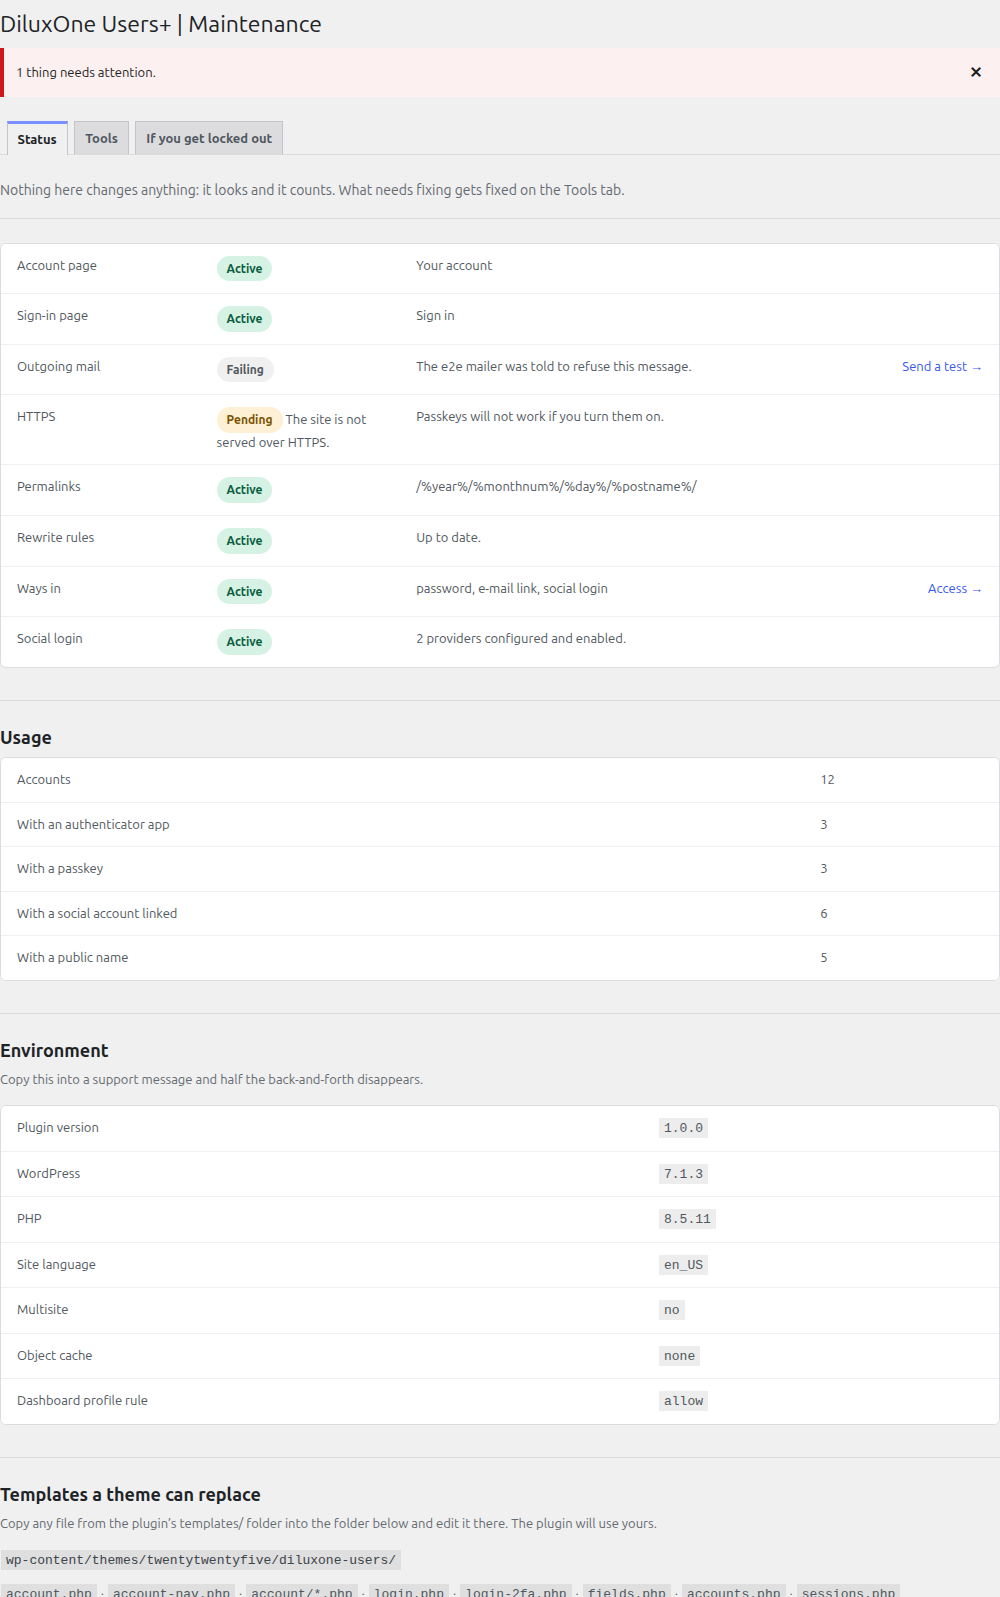
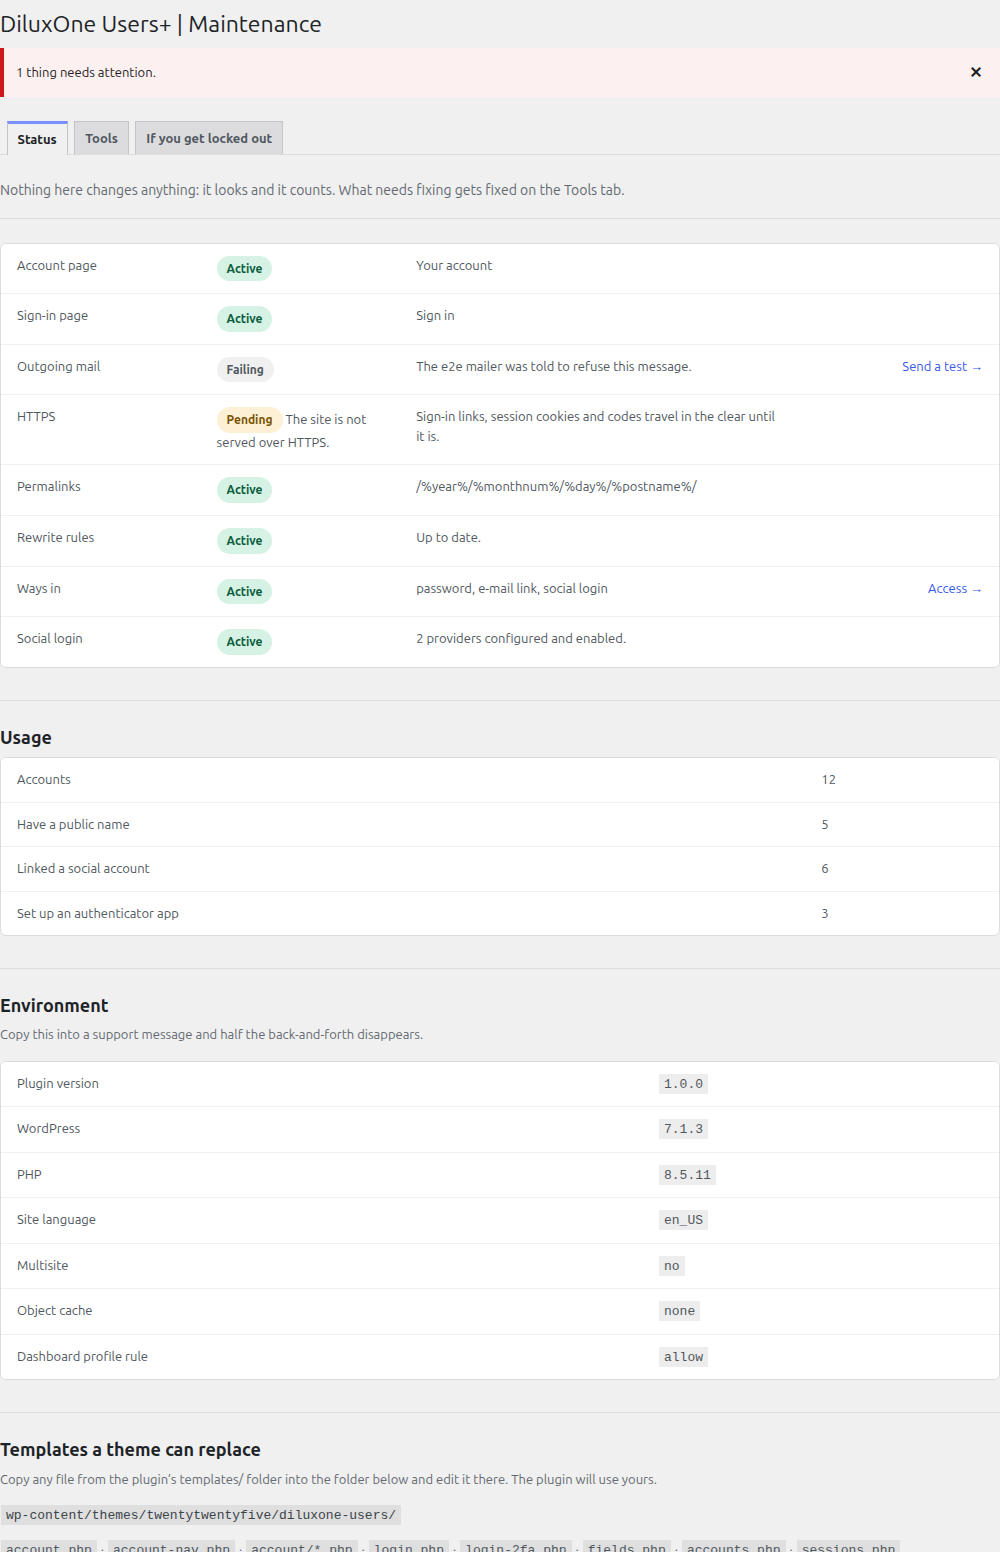
docs: the listing and the readme without passkeys
The short description, the tags, the features, the privacy and multisite answers and the safe-mode answer no longer list passkeys among the plugin's own; the captions of shots 1 and 3 and the shots that showed a passkey are retaken.

diff --git a/README.md b/README.md
@@ -1,6 +1,6 @@
 # DiluxOne Users+
 
-WordPress plugin for everything about the people who use a site: custom fields, a front-end account area, passwordless sign-in, social login, two-step verification, passkeys and session control, in one plugin that depends on no other.
+WordPress plugin for everything about the people who use a site: custom fields, a front-end account area, passwordless sign-in, social login, two-step verification and session control, in one plugin that depends on no other.
 
 [![License: GPL v2+](https://img.shields.io/badge/license-GPL--2.0--or--later-blue.svg)](LICENSE)
 
@@ -15,7 +15,6 @@ Sites where people have accounts: memberships, courses, communities, client area
 - **How people get in**: a link sent to their e-mail with no password at all, username and password, or both, with control over what happens to WordPress's own registration and profile screens.
 - **Social login** with Google and Microsoft, a step-by-step guide for each console, buttons with the real brand marks, and a live test before you turn one on. Any other OAuth 2 provider is one filter away ([`docs/extending.md`](docs/extending.md#social-login-providers)); DiluxOne Users+ Pro adds ten more.
 - **Two-step verification**: a code by e-mail, an authenticator app with a QR code, and backup codes, with a policy per role and per way in.
-- **Passkeys** (WebAuthn), each one with a name of its own.
 - **Sessions**: how long they last, where they are open and how to close them.
 - **Privacy**: the export and erasure requests WordPress already knows how to handle, put where people look for them.
 
